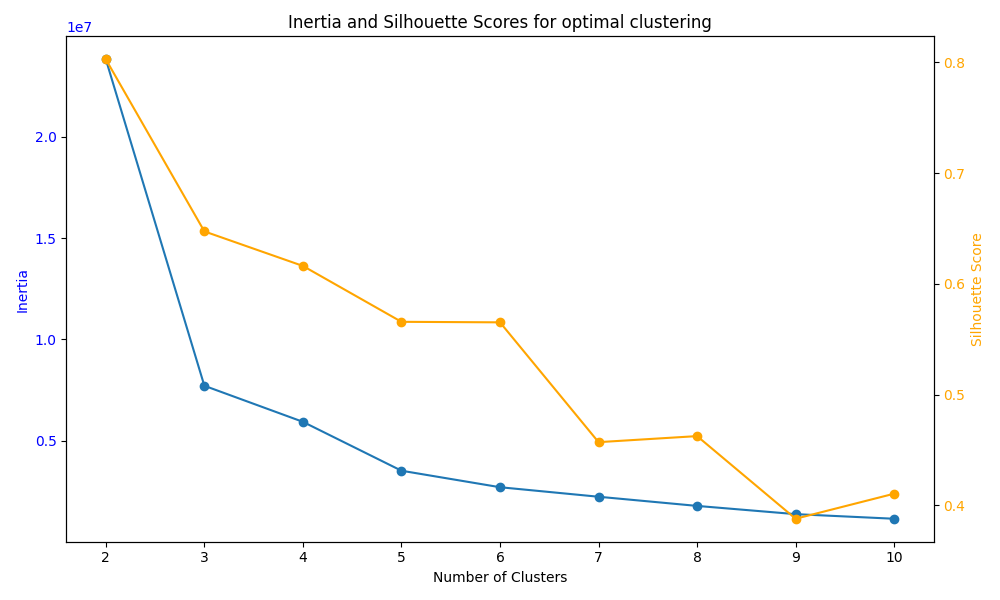
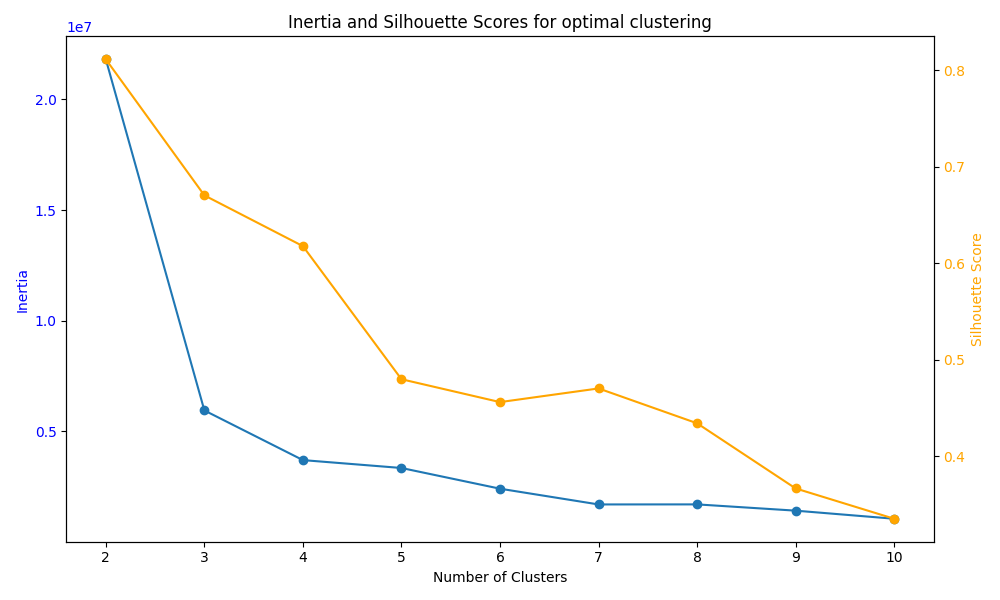
Added sillhouette scores to roles print outs. Re-ran graphs with a labeling issue. Resolved.

diff --git a/kmeans_all_participant_2axis_summed_nodes_normalized.py b/kmeans_all_participant_2axis_summed_nodes_normalized.py
@@ -12,6 +12,7 @@ import itertools
 from sklearn.cluster import KMeans #sci-kit learn
 import matplotlib.pyplot as plt # plotting
 from mpl_toolkits.mplot3d import Axes3D #3D MatPlotLib - if you have matplotlib, you have this
+from sklearn.metrics import silhouette_samples
 
 #benchmark tutorial
 from time import time
@@ -76,7 +77,7 @@ def main():
     num_groups=11
     total_participants=num_groups*4
     directory="/Graphs/All_Participant/Summed_Nodes/"
-    graph_name="l1_normalized_summed_nodes_of_for_2features"
+    graph_name="new_normalized_summed_nodes_of_for_2features"
     
     #load json data - must give a file name, can also take another folder relative to the location of the current file that calls it in the directory
     prox_data=DataSet("proximity_graphs.json")
@@ -89,11 +90,11 @@ def main():
     data_features=np.zeros((total_participants,data_sets))
 
     #Overhead: so I can do this in one snazzy loop
-    features=[prox_data,convo_data, atten_data]
+    features=[prox_data, convo_data, atten_data]
     axises=[(0,1),(0,2),(1,2)]
-    axis_name=["Talking", "Proximity", "Attention"]
-    x_axis=0 #proximity
-    y_axis=1 #talking
+    axis_name=["Proximity", "Talking", "Attention"]
+    x_axis=0 
+    y_axis=1 
     name_labels=get_names(num_groups=11)
     no_norm_data_features=np.zeros((total_participants,data_sets))
 
@@ -101,17 +102,8 @@ def main():
     #Doing 2 Feature Kmeans for 3 combos of graphs
     for index, axis in enumerate(axises):
         for i in range(total_participants):
-            no_norm_data_features[i][0]=features[axis[0]].get_sum_all_nodes()[i]
-            no_norm_data_features[i][1]=features[axis[1]].get_sum_all_nodes()[i]
-        print("NOT NORMALIZED=========================")
-        print(no_norm_data_features)
-
-        for i in range(total_participants):
             data_features[i][0]=features[axis[0]].get_sum_all_nodes_normalize(1)[i]
             data_features[i][1]=features[axis[1]].get_sum_all_nodes_normalize(1)[i]
-
-        print("NORMALIZED=========================")
-        print(data_features)
 
         ###### Make K Means Model and Extract Features ##########
         data=data_features
@@ -125,12 +117,12 @@ def main():
         # print(f"")
         # finder.plot_combined_metrics()
 
-        if axis==(0,1): #prox/convo
-            num_clusters=4
-        elif axis==(0,2): #prox/attention
-            num_clusters=3
-        elif axis==(1,2): #convo/atten
-            num_clusters=3
+        # if axis==(0,1): #prox/convo
+        #     num_clusters=3
+        # elif axis==(0,2): #prox/attention
+        #     num_clusters=3
+        # elif axis==(1,2): #convo/atten
+        #     num_clusters=3
 
         # Create KMeans model and fit the data
         kmeans = KMeans(n_clusters=num_clusters, random_state=21) # seed at 21 because of forever 21
@@ -140,31 +132,36 @@ def main():
         centroids = kmeans.cluster_centers_ # the center points of the cluster generated by the Kmeans model for each feature
         labels = kmeans.labels_ # returns labels for each feature - this is useful because it tells us who is in what roles
 
+        # Make silhouette scores core each person
+        silhouette_scores = silhouette_samples(data, labels)
+
+        # Print silhouette scores
+        # for i, score in enumerate(silhouette_scores):
+        #     if i % 4 == 0:
+        #         p=4
+        #     else:
+        #         p=i%4
+        #     print(f"Point {(i//4)+1}{chr(96+p)}: Silhouette Score = {score}")
+
         roles=[[] for _ in range(num_clusters)]
         p=None
 
-        for i, label in enumerate(labels):
+        for i, (label, score) in enumerate(zip(labels, silhouette_scores)):
             if i % 4 == 0:
                 p=4
             else:
                 p=i%4
-            roles[label].append(f'{(i//4)+1}{chr(96+p)}')
+            roles[label].append(f'{(i//4)+1}{chr(96+p)}{score:.2f}')
 
         ## prints roles define by k cluster
         print_name=graph_name + ":\n"+ axis_name[axis[0]] +" & "+axis_name[axis[1]]
         print(print_name)
-        # if axis==(0,1):
-        #     print(f'Role 1\tRole 2\tRole 3\tRole 4')#there is 3 if num_clusters=3
-        #     print(29 * "_")
-        #     for element in itertools.zip_longest(*roles):
-        #         print(f'{element[0]}\t{element[1]}\t{element[2]}\t{element[3]}')#there is 3 if num_clusters=3
 
-        # else:
-        #     print(f'Role 1\tRole 2\tRole 3')#there is 3 if num_clusters=3
-        #     print(22 * "_")
+        print(f'Role 1\tRole 2\tRole 3')#there is 3 if num_clusters=3
+        print(22 * "_")
 
-        #     for element in itertools.zip_longest(*roles):
-        #         print(f'{element[0]}\t{element[1]}\t{element[2]}')#there is 3 if num_clusters=3
+        for element in itertools.zip_longest(*roles):
+            print(f'{element[0]}\t{element[1]}\t{element[2]}')#there is 3 if num_clusters=3
 
         print("\n")
 

diff --git a/kmeans_all_participant_3Daxis_summed_nodes_normalized.py b/kmeans_all_participant_3Daxis_summed_nodes_normalized.py
@@ -12,6 +12,7 @@ import itertools
 from sklearn.cluster import KMeans #sci-kit learn
 import matplotlib.pyplot as plt # plotting
 from mpl_toolkits.mplot3d import Axes3D #3D MatPlotLib - if you have matplotlib, you have this
+from sklearn.metrics import silhouette_samples
 
 #benchmark tutorial
 from time import time
@@ -144,7 +145,7 @@ def main():
     num_groups=11
     total_participants=num_groups*4
     directory="/Graphs/All_Participant/Summed_Nodes/"
-    graph_name="l2_normalized_summed_nodes_of_for_3features"
+    graph_name="new_normalized_summed_nodes_of_for_3features"
     
     #load json data - must give a file name, can also take another folder relative to the location of the current file that calls it in the directory
     convo_data=DataSet("conversation_graphs.json")
@@ -154,13 +155,7 @@ def main():
     #numpy array where data set is column and nodes are rows
     data_sets=4 # different data sets, aka can be thought of as  features
     all_data=np.zeros((total_participants,data_sets))
-    no_norm_data_features=np.zeros((total_participants,data_sets))
-    for i in range(total_participants):
-        no_norm_data_features[i][0]=prox_data.get_sum_all_nodes()[i]
-        no_norm_data_features[i][1]=convo_data.get_sum_all_nodes()[i]
-        no_norm_data_features[i][2]=atten_data.get_sum_all_nodes()[i]
-    print("NOT NORMALIZED=========================")
-    print(no_norm_data_features)
+
 
     for i in range(total_participants):
         # these are counts or duration / seconds.##..
@@ -168,15 +163,12 @@ def main():
         all_data[i][1]=convo_data.get_sum_all_nodes_normalize(2)[i]
         all_data[i][2]=atten_data.get_sum_all_nodes_normalize(2)[i]
 
-    print("NORMALIZED=========================")
-    print(all_data)
-
   # determine # of clusters
-    finder = OptimalClusterFinder(data=all_data, max_clusters=10, graph_name=graph_name,directory=directory)
-    finder.find_optimal_clusters()
-    optimal_clusters = finder.get_optimal_clusters()
-    print(f"")
-    finder.plot_combined_metrics()
+    # finder = OptimalClusterFinder(data=all_data, max_clusters=10, graph_name=graph_name,directory=directory)
+    # finder.find_optimal_clusters()
+    # optimal_clusters = finder.get_optimal_clusters()
+    # print(f"")
+    # finder.plot_combined_metrics()
 
     ###### Make K Means Model and Extract Features ##########
     # Tell computer to divide in these number of clusters 
@@ -192,19 +184,30 @@ def main():
     centroids = kmeans.cluster_centers_ # the center points of the cluster generated by the Kmeans model for each feature
     labels = kmeans.labels_ # returns labels for each feature - this is useful because it tells us who is in what roles
 
-    roles=[[] for _ in range(num_clusters)] # 3 if 3 labels, 4 if 4 labels. undecided
-    p=None
+    # Make silhouette scores core each person
+    silhouette_scores = silhouette_samples(data, labels)
 
-    for i, label in enumerate(labels):
+    for i, score in enumerate(silhouette_scores):
         if i % 4 == 0:
             p=4
         else:
             p=i%4
-        roles[label].append(f'g{(i//4)+1}, {chr(96+p)}')
+        print(f"Point {(i//4)+1}{chr(96+p)}: Silhouette Score = {score}")
+
+
+    roles=[[] for _ in range(num_clusters)] # 3 if 3 labels, 4 if 4 labels. undecided
+    p=None
+
+    for i, (label, score) in enumerate(zip(labels, silhouette_scores)):
+        if i % 4 == 0:
+            p=4
+        else:
+            p=i%4
+        roles[label].append(f'{(i//4)+1}{chr(96+p)}{score:.2f}')
 
     ### prints roles define by k cluster
     print('\n'+graph_name)
-    print(f'Role 1\tRole 2\tRole 3\tRole 4')
+    print(f'Role 1\tRole 2\tRole 3')
     print(29 * "_")
 
     for element in itertools.zip_longest(*roles):

diff --git a/kmeans_all_participant_2axis_summed_nodes_unnormalized.py b/kmeans_all_participant_2axis_summed_nodes_unnormalized.py
@@ -12,6 +12,7 @@ import itertools
 from sklearn.cluster import KMeans #sci-kit learn
 import matplotlib.pyplot as plt # plotting
 from mpl_toolkits.mplot3d import Axes3D #3D MatPlotLib - if you have matplotlib, you have this
+from sklearn.metrics import silhouette_samples
 
 #benchmark tutorial
 from time import time
@@ -91,7 +92,7 @@ def main():
     #Overhead: so I can do this in one snazzy loop
     features=[prox_data,convo_data, atten_data]
     axises=[(0,1),(0,2),(1,2)]
-    axis_name=["Talking", "Proximity", "Attention"]
+    axis_name=["Proximity", "Talking", "Attention"]
     x_axis=0 #proximity
     y_axis=1 #talking
     name_labels=get_names(num_groups=11)
@@ -115,9 +116,6 @@ def main():
         # print(f"")
         # finder.plot_combined_metrics()
 
-        if axis==(0,1):
-            num_clusters=4
-
         # Create KMeans model and fit the data
         kmeans = KMeans(n_clusters=num_clusters, random_state=21) # seed at 21 because of forever 21
         kmeans.fit(data)
@@ -125,32 +123,39 @@ def main():
         # After the model is made, get the cluster centroids and labels
         centroids = kmeans.cluster_centers_ # the center points of the cluster generated by the Kmeans model for each feature
         labels = kmeans.labels_ # returns labels for each feature - this is useful because it tells us who is in what roles
+        # Make silhouette scores core each person
+        silhouette_scores = silhouette_samples(data, labels)
+
+        # Print silhouette scores
+        # for i, score in enumerate(silhouette_scores):
+        #     if i % 4 == 0:
+        #         p=4
+        #     else:
+        #         p=i%4
+        #     print(f"Point {(i//4)+1}{chr(96+p)}: Silhouette Score = {score}")
+
 
         roles=[[] for _ in range(num_clusters)]
         p=None
 
-        for i, label in enumerate(labels):
+
+        for i, (label, score) in enumerate(zip(labels, silhouette_scores)):
             if i % 4 == 0:
                 p=4
             else:
                 p=i%4
-            roles[label].append(f'{(i//4)+1}{chr(96+p)}')
+            roles[label].append(f'{(i//4)+1}{chr(96+p)}{score:.2f}')
+
 
         ## prints roles define by k cluster
         print_name=graph_name + ":\n"+ axis_name[axis[0]] +" & "+axis_name[axis[1]]
         print(print_name)
-        if axis==(0,1):
-            print(f'Role 1\tRole 2\tRole 3\tRole 4')#there is 3 if num_clusters=3
-            print(29 * "_")
-            for element in itertools.zip_longest(*roles):
-                print(f'{element[0]}\t{element[1]}\t{element[2]}\t{element[3]}')#there is 3 if num_clusters=3
 
-        else:
-            print(f'Role 1\tRole 2\tRole 3')#there is 3 if num_clusters=3
-            print(22 * "_")
+        print(f'Role 1\tRole 2\tRole 3')#there is 3 if num_clusters=3
+        print(22 * "_")
 
-            for element in itertools.zip_longest(*roles):
-                print(f'{element[0]}\t{element[1]}\t{element[2]}')#there is 3 if num_clusters=3
+        for element in itertools.zip_longest(*roles):
+            print(f'{element[0]}\t{element[1]}\t{element[2]}')#there is 3 if num_clusters=3
 
         print("\n")
 

diff --git a/kmeans_all_participant_3Daxis_summed_nodes_unnormalized.py b/kmeans_all_participant_3Daxis_summed_nodes_unnormalized.py
@@ -11,6 +11,7 @@ import itertools
 from sklearn.cluster import KMeans #sci-kit learn
 import matplotlib.pyplot as plt # plotting
 from mpl_toolkits.mplot3d import Axes3D #3D MatPlotLib - if you have matplotlib, you have this
+from sklearn.metrics import silhouette_samples
 
 #benchmark tutorial
 from time import time
@@ -155,9 +156,9 @@ def main():
     all_data=np.zeros((total_participants,data_sets))
     for i in range(total_participants):
         # these are counts or duration / seconds.##..
-        all_data[i][0]=prox_data.get_sum_all_nodes()[i]/compelition[(i//4)][0]
-        all_data[i][1]=(convo_data.get_sum_all_nodes()[i]/3)/compelition[(i//4)][0] # when it was summed it was just 3 values repeated
-        all_data[i][2]=atten_data.get_sum_all_nodes()[i]/compelition[(i//4)][0]
+        all_data[i][0]=prox_data.get_sum_all_nodes()[i]
+        all_data[i][1]=convo_data.get_sum_all_nodes()[i]
+        all_data[i][2]=atten_data.get_sum_all_nodes()[i]
 
    # determine # of clusters
     finder = OptimalClusterFinder(data=all_data, max_clusters=10, graph_name=graph_name,directory=directory)
@@ -168,7 +169,7 @@ def main():
 
     ###### Make K Means Model and Extract Features ##########
     # Tell computer to divide in these number of clusters 
-    num_clusters = 4
+    num_clusters = 3
     data=all_data
 
     # Create KMeans model and fit the data
@@ -179,22 +180,34 @@ def main():
     centroids = kmeans.cluster_centers_ # the center points of the cluster generated by the Kmeans model for each feature
     labels = kmeans.labels_ # returns labels for each feature - this is useful because it tells us who is in what roles
 
-    roles=[[] for _ in range(num_clusters)] # 3 if 3 labels, 4 if 4 labels. undecided
-    p=None
-    for i, label in enumerate(labels):
+    # Make silhouette scores core each person
+    silhouette_scores = silhouette_samples(data, labels)
+
+    for i, score in enumerate(silhouette_scores):
         if i % 4 == 0:
             p=4
         else:
             p=i%4
-        roles[label].append(f'{(i//4)+1}{chr(96+p)}')
+        print(f"Point {(i//4)+1}{chr(96+p)}: Silhouette Score = {score}")
+
+    roles=[[] for _ in range(num_clusters)] # 3 if 3 labels, 4 if 4 labels. undecided
+    p=None
+    
+    for i, (label, score) in enumerate(zip(labels, silhouette_scores)):
+        if i % 4 == 0:
+            p=4
+        else:
+            p=i%4
+        roles[label].append(f'{(i//4)+1}{chr(96+p)}{score:.2f}')
+
 
     ### prints roles define by k cluster
     print('\n'+graph_name)
-    print(f'Role 1\tRole 2\tRole 3\tRole 4')
+    print(f'Role 1\tRole 2\tRole 3')
     print(29 * "_")
 
     for element in itertools.zip_longest(*roles):
-        print(f'{element[0]}\t{element[1]}\t{element[2]}\t{element[3]}')#there is 3 if num_clusters=3
+        print(f'{element[0]}\t{element[1]}\t{element[2]}')#there is 3 if num_clusters=3
 
     # benchmarks(kmeans=kmeans, num_clusters=num_clusters, data=data, labels=labels)
 

diff --git a/kmeans_energies.py b/kmeans_energies.py
@@ -119,7 +119,7 @@ def benchmarks(kmeans:str, num_clusters:int, data:np.ndarray, labels):
 
     print(80 * "_")
 
-def get_names(num_groups)->list:
+def get_names(num_groups:int)->list:
     """Made this so I can add names to the dots in the matplotlib charts.
     :returns: array of strings with names of each person [g#, letter], where g# is the group number and letter is the person in the group (person a, person b, person c, person d)"""
     
